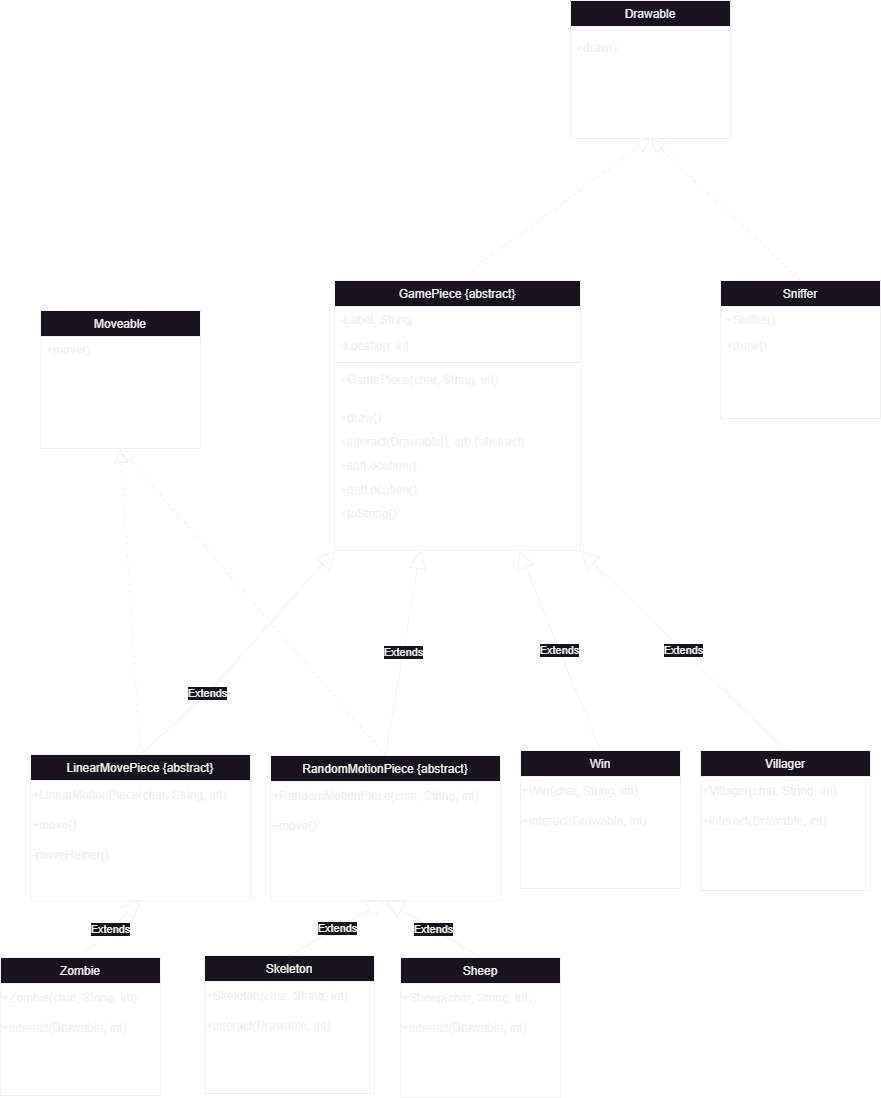
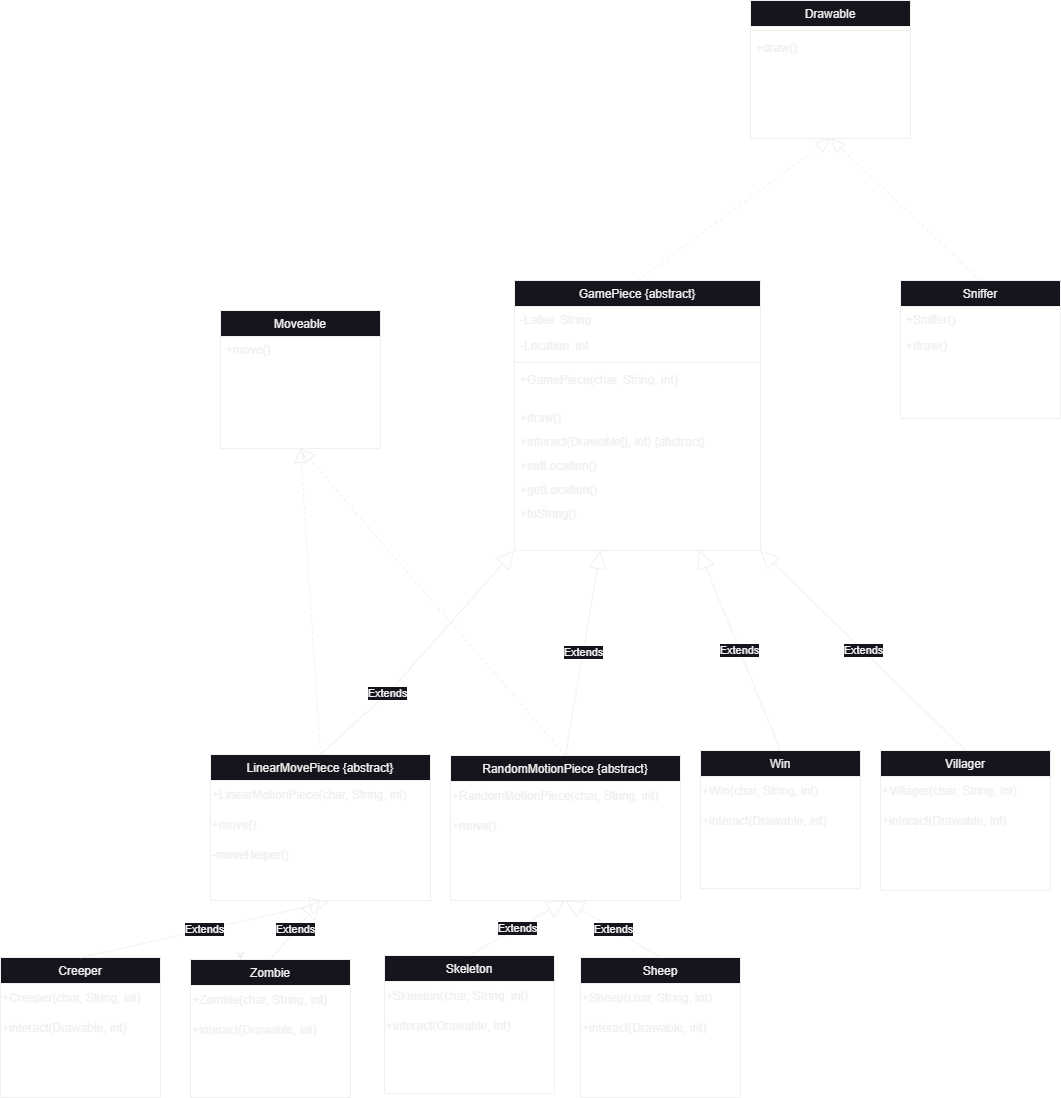
Add Creeper (we need 7 charecters) Update UML and txt file

diff --git a/src/gameEngine/LevelSetup.java b/src/gameEngine/LevelSetup.java
@@ -7,6 +7,7 @@ import levelPieces.Skeleton;
 import levelPieces.Sniffer;
 import levelPieces.Villager;
 import levelPieces.Win;
+import levelPieces.Creeper;
 import levelPieces.Zombie;
 
 public class LevelSetup {
@@ -19,6 +20,7 @@ public class LevelSetup {
 	private GamePiece villager;
 	private Sheep Sheep;
 	private Skeleton Skeleton;
+	private Creeper Creeper;
 	private GamePiece winner;
 	
 	public LevelSetup() {
@@ -56,6 +58,7 @@ public class LevelSetup {
 			villager = new Villager('V', "Villager", 14);
 			Sheep = new Sheep('O', "Sheep", 18);
 			Skeleton = new Skeleton('S', "Skeleton", 20);
+			Creeper = new Creeper('C', "Creeper", 2);
 			winner = new Win('W', "Win", 14);
 			
 			
@@ -63,6 +66,7 @@ public class LevelSetup {
 			movingPieces.add(Zombie);
 			movingPieces.add(Skeleton);
 			movingPieces.add(Sheep);
+			movingPieces.add(Creeper);
 			
 			//Adding interacting pieces
 			interactingPieces.add(Zombie);
@@ -70,6 +74,7 @@ public class LevelSetup {
 			interactingPieces.add(Sheep);
 			interactingPieces.add(villager);
 			interactingPieces.add(winner);
+			interactingPieces.add(Creeper);
 			
 			
 			//Adding gameboard pieces
@@ -77,6 +82,7 @@ public class LevelSetup {
 			gameBoard[winner.getLocation()] = winner;
 			gameBoard[Zombie.getLocation()] = Zombie;
 			gameBoard[Skeleton.getLocation()] = Skeleton;
+			gameBoard[Creeper.getLocation()] = Creeper;
 			gameBoard[Sheep.getLocation()] = Sheep;
 			gameBoard[15] = new Sniffer();		
 			
@@ -87,6 +93,7 @@ public class LevelSetup {
 			PlayerStartingLocation = 10;
 			Zombie = new Zombie('Z', "Zombie", 8);
 			villager = new Villager('V', "Villager", 4);
+			Creeper = new Creeper('C', "Creeper", 6);
 			Sheep = new Sheep('O', "Sheep", 12);
 			Skeleton = new Skeleton('S', "Skeleton", 18);
 			winner = new Win('W', "Win", 16);
@@ -104,10 +111,12 @@ public class LevelSetup {
 			movingPieces.add(Zombie);
 			movingPieces.add(Skeleton);
 			movingPieces.add(Sheep);
+			movingPieces.add(Creeper);
 			
 			//Adding interacting pieces
 			interactingPieces.add(Zombie);
 			interactingPieces.add(Skeleton);
+			interactingPieces.add(Creeper);
 			interactingPieces.add(Sheep);
 			interactingPieces.add(villager);
 			interactingPieces.add(winner);
@@ -118,6 +127,7 @@ public class LevelSetup {
 			gameBoard[winner.getLocation()] = winner;
 			gameBoard[Zombie.getLocation()] = Zombie;
 			gameBoard[Skeleton.getLocation()] = Skeleton;
+			gameBoard[Creeper.getLocation()] = Creeper;
 			gameBoard[Sheep.getLocation()] = Sheep;
 			gameBoard[15] = new Sniffer();		
 		}

diff --git a/src/levelPieces/Creeper.java b/src/levelPieces/Creeper.java
@@ -1,0 +1,34 @@
+package levelPieces;
+import gameEngine.Drawable;
+import gameEngine.InteractionResult;
+
+public class Creeper extends LinearMotionPiece {
+	
+	private static int TIME_TO_BLOW = 3;
+
+	public Creeper(char symbol, String label, int location) {
+		super(symbol, label, location);
+	}
+
+	//kills player within 2 blocks, but if special move is true, kills player within 3 blocks
+	public InteractionResult interact(Drawable[] board, int playerLocation) {
+		
+		//handling blow logic
+		boolean BLOW = false;
+		if (TIME_TO_BLOW == 0) {
+			BLOW = true;
+			System.out.println("THE CREEPER BLOWS!");
+			TIME_TO_BLOW = 3;
+		} else {
+			TIME_TO_BLOW--;
+		}
+		
+		
+		
+		if (((Math.abs(playerLocation - this.getLocation()) <= 5) && BLOW)) {
+			return InteractionResult.HIT;
+		} else {
+			return InteractionResult.NONE;
+		}
+	}		
+}

diff --git a/src/levelPieces/Skeleton.java b/src/levelPieces/Skeleton.java
@@ -14,7 +14,8 @@ public class Skeleton extends RandomMotionPiece {
 	public InteractionResult interact(Drawable[] board, int playerLocation) {
 		Random rand = new Random();
 		boolean SpecialMove = rand.nextBoolean();
-		System.out.println("SPECIAL SKELETON MOVE ACTIVE!");
+		
+		if (SpecialMove) System.out.println("SPECIAL SKELETON MOVE ACTIVE!");
 		
 		if (((Math.abs(playerLocation - this.getLocation()) <= 2) && !SpecialMove) || ((Math.abs(playerLocation - this.getLocation()) <= 3) && SpecialMove)) {
 			return InteractionResult.HIT;
